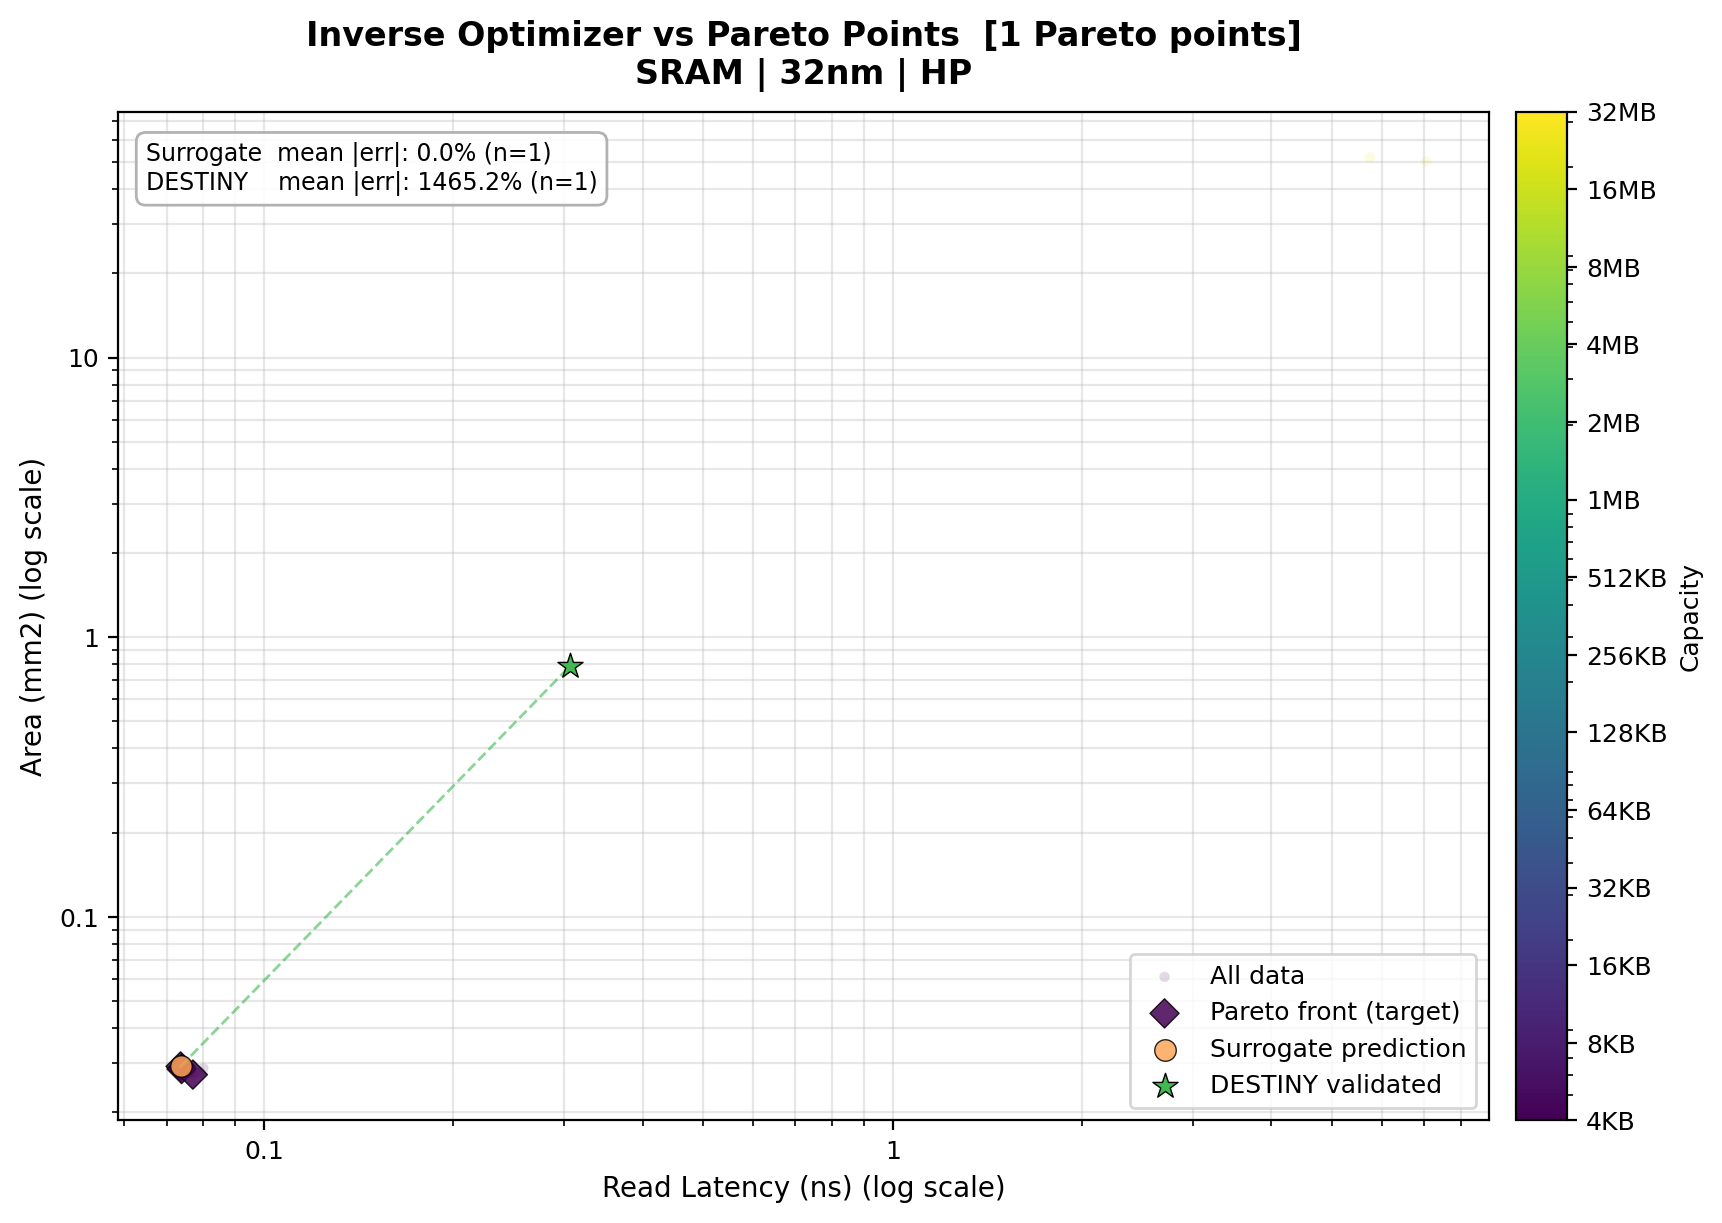
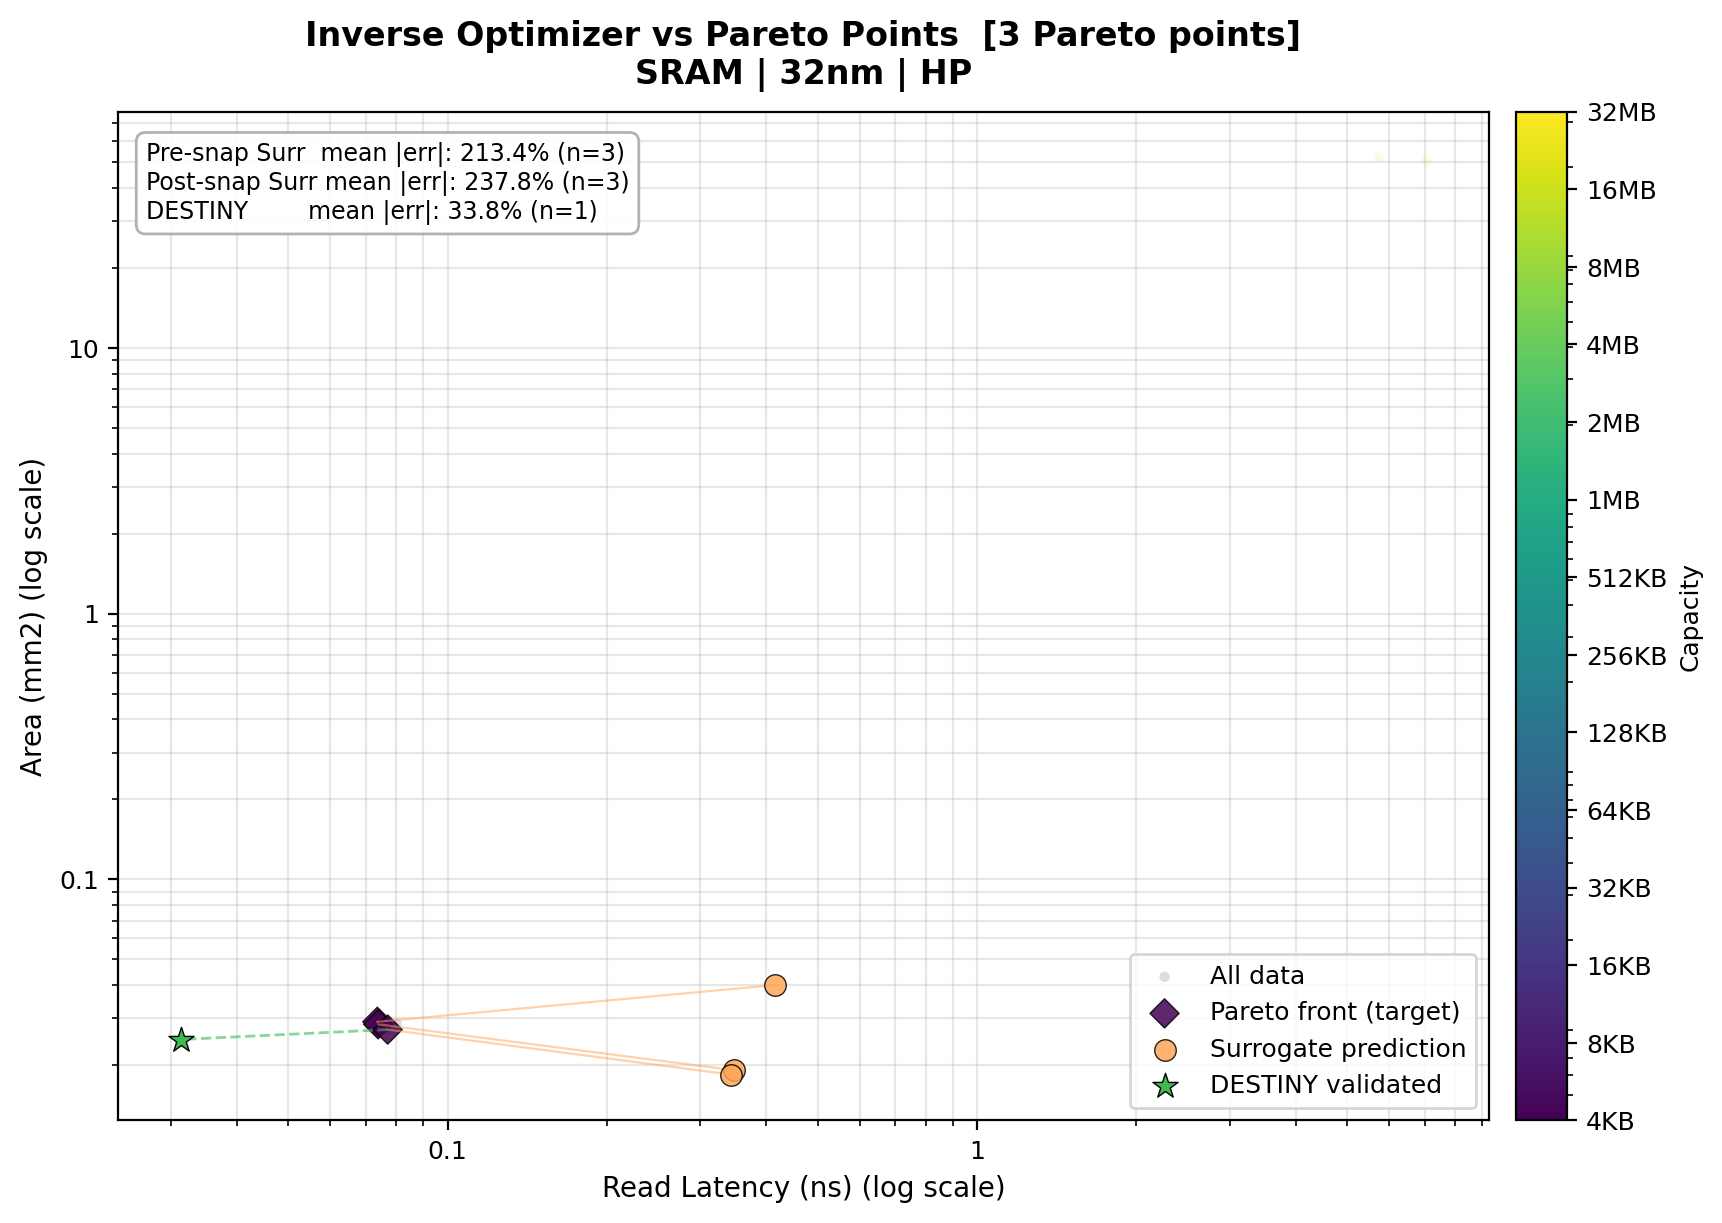
process node fix???

diff --git a/inverse_design_sweep.py b/inverse_design_sweep.py
@@ -94,6 +94,7 @@ def _generate_destiny_configs(cell_file, cfg_file, cap_kb, ww, assoc, stack, tem
 -Temperature (K): {temp}
 -DeviceRoadmap: {roadmap}
 -MemoryCellInputFile: {os.path.abspath(cell_file)}
+-ProcessNode: {node}
 """
     
     # Append forced layout parameters
@@ -233,20 +234,6 @@ def _layout_from_row(row):
     """Extract forced layout params present in a Series/dict as int, else None."""
     return {k: int(row[k]) for k in _LAYOUT_COLS if k in row.index and pd.notna(row[k])}
 
-def _check_physics_feasibility(row, assoc=4):
-    """Pre-validate physics feasibility before calling DESTINY."""
-    cap_bits, ww = row.get("capacity_kb", 0) * 8192, row.get("word_width_bits", 0)
-    layout = _layout_from_row(row)
-    mux = layout.get("data_mux_sense_amp", 1) * layout.get("data_mux_output_lev2", 1)
-    mats = (layout.get("data_num_active_mat_per_row", 1) * layout.get("data_num_active_mat_per_col", 1) *
-            layout.get("data_num_active_subarray_per_row", 1) * layout.get("data_num_active_subarray_per_col", 1))
-            
-    num_col = ww * mux
-    if cap_bits / (mats * num_col + 1e-9) < 1: return False, "numRow < 1"
-    if num_col > 1024: return False, f"numCol={num_col} > 1024"
-    if num_col * mats < ww * assoc: return False, "bits_per_mat < set_size"
-    return True, "ok"
-
 # -- Main Helpers --------------------------------------------------------------
 
 def _load_and_filter_data(args, data_csv, x_col, y_col):
@@ -279,31 +266,64 @@ def _run_optimization_sweep(df_target, df, opt, x_col, y_col, x_label, y_label, 
         opt_ctx = {k: v for k, v in ctx.items() if not k.startswith("_")}
         opt_ctx["data_stacked_die_count"] = 0.0 # Force 2D designs
         
-        design, ppa = opt.optimize(targets, opt_ctx, steps=args.opt_steps)
+        design, ppa, pre_snap, snapped_ppa = opt.optimize(targets, opt_ctx, steps=args.opt_steps, verbose=args.verbose_opt)
         surr_x, surr_y = ppa.get(METRIC_TO_PPA_LABEL.get(x_col, "")), ppa.get(METRIC_TO_PPA_LABEL.get(y_col, ""))
         
         errs = [abs(pct_err(v, t)) for v, t in [(surr_x, target_x), (surr_y, target_y)] if v is not None]
         surr_mean_err = float(np.mean(errs)) if errs else float("nan")
 
+        snapped_surr_x = snapped_ppa.get(METRIC_TO_PPA_LABEL.get(x_col, "")) if snapped_ppa else None
+        snapped_surr_y = snapped_ppa.get(METRIC_TO_PPA_LABEL.get(y_col, "")) if snapped_ppa else None
+        
+        snap_errs = [abs(pct_err(v, t)) for v, t in [(snapped_surr_x, target_x), (snapped_surr_y, target_y)] if v is not None]
+        snap_mean_err = float(np.mean(snap_errs)) if snap_errs else float("nan")
+
         x_pct, y_pct = float((df[x_col] <= target_x).mean() * 100), float((df[y_col] <= target_y).mean() * 100)
 
+        # Optimized cell params (public names so they aren't stripped from CSV)
+        opt_wn  = design.get("CellInput_SRAMCellNMOSWidth (F)", ctx["_wn"])
+        opt_wp  = design.get("CellInput_SRAMCellPMOSWidth (F)", ctx["_wp"])
+        opt_wac = design.get("CellInput_AccessCMOSWidth (F)",   ctx["_wac"])
+        opt_rv  = design.get("CellInput_ReadVoltage (V)",        ctx["_read_voltage"])
+
         records.append({
+            # --- metadata ---
+            "is_original": False,
             "target_idx": i, "x_percentile": x_pct, "y_percentile": y_pct,
-            "target_x": target_x, "target_y": target_y, "surr_x": surr_x, "surr_y": surr_y,
+            "node_nm": int(row["process_node_nm"]),
+            "target_x": target_x, "target_y": target_y, 
+            "surr_x": surr_x, "surr_y": surr_y,
             "surr_err_x_pct": pct_err(surr_x, target_x) if surr_x is not None else None,
             "surr_err_y_pct": pct_err(surr_y, target_y) if surr_y is not None else None,
             "surr_mean_abs_err_pct": surr_mean_err,
+            "post_snap_surr_x": snapped_surr_x, "post_snap_surr_y": snapped_surr_y,
+            "post_snap_surr_err_x_pct": pct_err(snapped_surr_x, target_x) if snapped_surr_x is not None else None,
+            "post_snap_surr_err_y_pct": pct_err(snapped_surr_y, target_y) if snapped_surr_y is not None else None,
+            "post_snap_surr_mean_abs_err_pct": snap_mean_err,
+            # --- original dataset inputs (the design that achieved the target PPA) ---
+            "orig_capacity_kb":            row.get("capacity_kb"),
+            "orig_word_width_bits":        row.get("word_width_bits"),
+            "orig_associativity":          row.get("associativity"),
+            "orig_data_stacked_die_count": row.get("data_stacked_die_count"),
+            **{f"orig_{k}": row.get(k) for k in _LAYOUT_COLS},
+            "orig_wn":  ctx["_wn"],  "orig_wp":  ctx["_wp"],
+            "orig_wac": ctx["_wac"], "orig_rv":  ctx["_read_voltage"],
+            # --- optimized inputs (what we re-injected into DESTINY) ---
             "capacity_kb": design.get("capacity_kb"), "word_width_bits": design.get("word_width_bits"),
             "associativity": design.get("associativity"), "data_stacked_die_count": design.get("data_stacked_die_count"),
             **{k: design.get(k) for k in _LAYOUT_COLS},
-            "_wn": design.get("CellInput_SRAMCellNMOSWidth (F)", ctx["_wn"]),
-            "_wp": design.get("CellInput_SRAMCellPMOSWidth (F)", ctx["_wp"]),
-            "_wac": design.get("CellInput_AccessCMOSWidth (F)", ctx["_wac"]),
-            "_read_voltage": design.get("CellInput_ReadVoltage (V)", ctx["_read_voltage"]),
+            "opt_wn": opt_wn, "opt_wp": opt_wp, "opt_wac": opt_wac, "opt_rv": opt_rv,
+            # --- private: used internally, stripped before saving ---
+            "_wn": opt_wn, "_wp": opt_wp, "_wac": opt_wac, "_read_voltage": opt_rv,
             "_temp": SRAM_TEMPERATURE_MAP.get(design.get("data_stacked_die_count", 1), ctx["_temp"]),
+            # --- DESTINY validation results (filled in step 5) ---
             "destiny_x": None, "destiny_y": None, "destiny_err_x_pct": None, "destiny_err_y_pct": None, "destiny_mean_abs_err_pct": None,
+            # --- pre-snap continuous values from the optimizer ---
+            **{f"pre_snap_{k}": v for k, v in pre_snap.items()},
         })
-        print(f"  [{i+1:3d}/{len(df_target)}] Target: {x_label.split()[0]}={target_x:.4g}{x_unit} (p{x_pct:.0f}), {y_label.split()[0]}={target_y:.4g}{y_unit} (p{y_pct:.0f})  ->  Surr: {surr_x:.4g}, {surr_y:.4g}  (err={surr_mean_err:.1f}%)")
+        print(f"  [{i+1:3d}/{len(df_target)}] Target: {x_label.split()[0]}={target_x:.4g}{x_unit} (p{x_pct:.0f}), {y_label.split()[0]}={target_y:.4g}{y_unit} (p{y_pct:.0f})\n"
+              f"         Pre-snap Surr:  {surr_x:.4g}, {surr_y:.4g}  (err={surr_mean_err:.1f}%)\n"
+              f"         Post-snap Surr: {snapped_surr_x:.4g}, {snapped_surr_y:.4g}  (err={snap_mean_err:.1f}%)")
     return pd.DataFrame(records)
 
 def _validate_top_designs(df_res, x_col, y_col, n_validate, args):
@@ -316,16 +336,17 @@ def _validate_top_designs(df_res, x_col, y_col, n_validate, args):
     for rank, ri in enumerate(df_res["surr_mean_abs_err_pct"].sort_values().head(n_validate).index, 1):
         row = df_res.loc[ri]
         ot = "ReadLatency"
+        node_val = int(row.get("node_nm", args.node))
         
         print(f"  Validating design #{rank}  (target_idx={int(row.target_idx)}, surr_err={row.surr_mean_abs_err_pct:.1f}%)\n"
-              f"    Cap={int(row.capacity_kb)}KB  WW={row.word_width_bits}  Assoc={row.associativity}  Stack={row.data_stacked_die_count}  OptTarget={ot}")
+              f"    Node={node_val}nm  Cap={int(row.capacity_kb)}KB  WW={row.word_width_bits}  Assoc={row.associativity}  Stack={row.data_stacked_die_count}  OptTarget={ot}")
 
         layout = _layout_from_row(row)
         destiny_ppa = validate_and_capture(
             tech=args.tech, cap_kb=int(row.capacity_kb), ww=int(row.word_width_bits),
             assoc=int(row.associativity), stack=max(1, int(row.data_stacked_die_count)),
             temp=int(row["_temp"]), wn=float(row["_wn"]), wp=float(row["_wp"]), wac=float(row["_wac"]), read_voltage=float(row["_read_voltage"]),
-            node=args.node, roadmap=args.roadmap, timeout=args.destiny_timeout, verbose=args.verbose_destiny, opt_target=ot,
+            node=node_val, roadmap=args.roadmap, timeout=args.destiny_timeout, verbose=args.verbose_destiny, opt_target=ot,
             mux_sa=layout.get("data_mux_sense_amp"), mux_ol2=layout.get("data_mux_output_lev2"),
             act_mat_col=layout.get("data_num_active_mat_per_col"), act_mat_row=layout.get("data_num_active_mat_per_row"),
             act_sub_col=layout.get("data_num_active_subarray_per_col"), act_sub_row=layout.get("data_num_active_subarray_per_row"),
@@ -385,8 +406,12 @@ def _plot_results(df_res, df, df_target, df_pareto_ref, x_col, y_col, x_label, y
     subtitle = f"{len(df_target)} targets, {args.n_bins} bins" if args.mode == "median" else f"{len(df_target)} Pareto points"
     ax.set_title(f"Inverse Optimizer vs {args.mode.capitalize()} Points  [{subtitle}]\n{args.tech} | {args.node}nm | {args.roadmap}", fontsize=12, fontweight="bold", pad=10)
 
-    ann_lines = [f"Surrogate  mean |err|: {s_errs.mean():.1f}% (n={len(s_errs)})"]
-    if len(d_errs) > 0: ann_lines.append(f"DESTINY    mean |err|: {d_errs.mean():.1f}% (n={len(d_errs)})")
+    post_s_errs = df_res["post_snap_surr_mean_abs_err_pct"].dropna()
+    ann_lines = [
+        f"Pre-snap Surr  mean |err|: {s_errs.mean():.1f}% (n={len(s_errs)})",
+        f"Post-snap Surr mean |err|: {post_s_errs.mean():.1f}% (n={len(post_s_errs)})"
+    ]
+    if len(d_errs) > 0: ann_lines.append(f"DESTINY        mean |err|: {d_errs.mean():.1f}% (n={len(d_errs)})")
     ax.text(0.02, 0.97, "\n".join(ann_lines), transform=ax.transAxes, fontsize=8.5, verticalalignment="top", bbox=dict(boxstyle="round,pad=0.4", facecolor="white", edgecolor="#aaaaaa", alpha=0.9))
 
     ax.grid(True, which="both", alpha=0.3); ax.legend(loc="lower right", fontsize=9); add_cap_colorbar(fig, [ax], norm)
@@ -410,6 +435,7 @@ def main():
     p.add_argument("--destiny-timeout", type=int, default=300, help="Timeout [s] per DESTINY call")
     p.add_argument("--output-dir", default="benchmark_results")
     p.add_argument("--verbose-destiny", action="store_true", help="Print DESTINY cell/cfg and full stdout on every call")
+    p.add_argument("--verbose-opt",     action="store_true", help="Print pre/post-snap parameter table for every optimized design")
     p.add_argument("--max-targets", type=int, default=None, help="Max target designs to optimize (None for all)")
     p.add_argument("--feasibility", action="store_true", help="Use feasibility classifier to penalize impossible designs")
     args = p.parse_args()
@@ -441,12 +467,16 @@ def main():
 
     df_res = _validate_top_designs(df_res, x_col, y_col, min(args.validate_top, len(df_res)), args)
 
-    s_errs, d_errs = df_res["surr_mean_abs_err_pct"].dropna(), df_res["destiny_mean_abs_err_pct"].dropna()
+    s_errs = df_res["surr_mean_abs_err_pct"].dropna()
+    post_s_errs = df_res["post_snap_surr_mean_abs_err_pct"].dropna()
+    d_errs = df_res["destiny_mean_abs_err_pct"].dropna()
     csv_path = os.path.join(args.output_dir, f"benchmark_{args.mode}_{args.tech}_{args.node}nm_{args.roadmap}.csv")
     df_res[[c for c in df_res.columns if not c.startswith("_")]].to_csv(csv_path, index=False)
     
-    print(f"[6/6] Results saved -> {csv_path}\n      Surrogate mean |err|: {s_errs.mean():.2f}%  (median {s_errs.median():.2f}%,  n={len(s_errs)})")
-    if len(d_errs) > 0: print(f"      DESTINY   mean |err|: {d_errs.mean():.2f}%  (median {d_errs.median():.2f}%,  n={len(d_errs)})")
+    print(f"[6/6] Results saved -> {csv_path}\n"
+          f"      Pre-snap Surr  mean |err|: {s_errs.mean():.2f}%  (median {s_errs.median():.2f}%,  n={len(s_errs)})\n"
+          f"      Post-snap Surr mean |err|: {post_s_errs.mean():.2f}%  (median {post_s_errs.median():.2f}%,  n={len(post_s_errs)})")
+    if len(d_errs) > 0: print(f"      DESTINY        mean |err|: {d_errs.mean():.2f}%  (median {d_errs.median():.2f}%,  n={len(d_errs)})")
 
     _plot_results(df_res, df, df_target, df_pareto_ref, x_col, y_col, x_label, y_label, args, s_errs, d_errs)
 

diff --git a/inverse_design.py b/inverse_design.py
@@ -74,8 +74,11 @@ def _build_dyn_idx(feature_cols, opt_cols):
 
 
 def _update_sram_cell_features(x, dyn_idx, log_vals, opt_cols, fixed_context, device):
-    """Compute SRAM cell derived features and write them into feature vector x (in-place)."""
-    from destiny_utils import derive_sram_physical_params
+    """Compute SRAM cell derived features and write them into feature vector x (in-place).
+
+    CellArea is computed using differentiable torch ops so gradients flow back to
+    wn/wp/wac during optimization. 
+    """
     wn  = 10 ** log_vals[opt_cols.index("CellInput_SRAMCellNMOSWidth (F)")]
     wp  = 10 ** log_vals[opt_cols.index("CellInput_SRAMCellPMOSWidth (F)")]
     wac = 10 ** log_vals[opt_cols.index("CellInput_AccessCMOSWidth (F)")]
@@ -83,14 +86,15 @@ def _update_sram_cell_features(x, dyn_idx, log_vals, opt_cols, fixed_context, de
         rv = log_vals[opt_cols.index("CellInput_ReadVoltage (V)")]
     else:
         rv = torch.tensor(float(fixed_context.get("CellInput_ReadVoltage (V)", 1.0)), device=device)
-    node = int([k for k in fixed_context if "process_node_nm_" in k][0].split("_")[-1])
-    p = {"SRAMCellNMOSWidth (F)": wn.item(), "SRAMCellPMOSWidth (F)": wp.item(), "AccessCMOSWidth (F)": wac.item()}
-    derive_sram_physical_params(p, node)
-    cell_area = p["CellArea (F^2)"]
+
+    # Differentiable CellArea — gradient flows back to wn, wp, wac
+    cell_area = 55.0 + 30.0 * torch.maximum(wn, wac) + 20.0 * (wp + 0.5) # Mirrors the formula in derive_sram_physical_params
+    cell_area = torch.clamp(cell_area, 40.0, 200.0) # Same clamping too
+
     if "CellInput_CellArea (F^2)" in dyn_idx:
-        x[dyn_idx["CellInput_CellArea (F^2)"]] = torch.log10(torch.tensor(cell_area, device=device))
+        x[dyn_idx["CellInput_CellArea (F^2)"]] = torch.log10(cell_area)
     if "derived_sqrt_area" in dyn_idx:
-        x[dyn_idx["derived_sqrt_area"]] = torch.sqrt(torch.tensor(cell_area, device=device))
+        x[dyn_idx["derived_sqrt_area"]] = torch.sqrt(cell_area)
     if "derived_read_v_sq" in dyn_idx:
         x[dyn_idx["derived_read_v_sq"]] = rv ** 2
 
@@ -190,7 +194,7 @@ class InverseOptimizer:
             torch.tensor(weights, dtype=torch.float32, device=self.device),
         )
 
-    def optimize(self, targets, fixed_context, steps=300, n_restarts=4, target_weights=None):
+    def optimize(self, targets, fixed_context, steps=300, n_restarts=4, target_weights=None, verbose=False):
         """Gradient-based inverse design with multi-start."""
         t_tensor, w_tensor = self._target_tensors(targets)
         if target_weights is not None:
@@ -316,10 +320,84 @@ class InverseOptimizer:
                 if k not in self.opt_cols:
                     design[k] = int(2 ** float(v)) if k == "data_stacked_die_count" else v
 
+            # Always compute pre-snap (continuous) physical values for CSV export
+            pre_snap = {}
+            for col, lv in zip(self.opt_cols, final_log_vals):
+                if col in self.log10_cols:
+                    pre_snap[col] = float(10 ** lv)
+                elif col in self.log2_cols:
+                    pre_snap[col] = float(2 ** lv)
+                else:
+                    pre_snap[col] = float(lv)
+
+            # Second forward pass using snapped values — gives the honest post-snap surrogate prediction
+            snapped_log_vals = torch.zeros(len(self.opt_cols), device=self.device)
+            for j, col in enumerate(self.opt_cols):
+                val = float(design.get(col, 0.0))
+                if col in self.log10_cols:
+                    snapped_log_vals[j] = float(np.log10(max(val, 1e-12)))
+                elif col in self.log2_cols:
+                    snapped_log_vals[j] = float(np.log2(max(val, 1)))
+                else:
+                    snapped_log_vals[j] = val
+
+            cap_log10_snap = snapped_log_vals[self.opt_cols.index("capacity_kb")]
+            cap_phys_snap  = 10 ** cap_log10_snap
+
+            x_snap = base_x.clone()
+            for col, lv in zip(self.opt_cols, snapped_log_vals):
+                if col in dyn_idx:
+                    x_snap[dyn_idx[col]] = lv
+
+            if "derived_sqrt_capacity" in dyn_idx:
+                x_snap[dyn_idx["derived_sqrt_capacity"]] = torch.sqrt(cap_phys_snap)
+
+            if "data_stacked_die_count" in self.opt_cols:
+                stk_phys_snap = 2 ** snapped_log_vals[self.opt_cols.index("data_stacked_die_count")]
+            else:
+                stk_phys_snap = torch.tensor(2 ** float(fixed_context.get("data_stacked_die_count", 0.0)), device=self.device)
+
+            if "word_width_bits" in self.opt_cols:
+                ww_phys_snap = 2 ** snapped_log_vals[self.opt_cols.index("word_width_bits")]
+            else:
+                ww_phys_snap = torch.tensor(2 ** float(fixed_context.get("word_width_bits", 6.0)), device=self.device)
+
+            if "derived_cap_per_die" in dyn_idx:
+                x_snap[dyn_idx["derived_cap_per_die"]]  = cap_phys_snap / stk_phys_snap
+            if "derived_rows_per_die" in dyn_idx:
+                x_snap[dyn_idx["derived_rows_per_die"]] = (cap_phys_snap * 1024) / (ww_phys_snap * stk_phys_snap)
+
+            if self.tech == "SRAM" and "CellInput_SRAMCellNMOSWidth (F)" in self.opt_cols:
+                _update_sram_cell_features(x_snap, dyn_idx, snapped_log_vals, self.opt_cols, fixed_context, self.device)
+
+            for rm in ["HP", "LOP", "LSTP"]:
+                col = f"device_roadmap_{rm}_x_log10_cap"
+                if col in dyn_idx:
+                    x_snap[dyn_idx[col]] = float(fixed_context.get(f"device_roadmap_{rm}", 0.0)) * cap_log10_snap
+
+            x_snap_scaled = ((x_snap - self.means) / self.stds).unsqueeze(0)
+            if self.model.has_feasibility_head:
+                pred_snap, _ = self.model.forward_with_feasibility(x_snap_scaled)
+            else:
+                pred_snap = self.model(x_snap_scaled)
+            snapped_ppa = 10 ** pred_snap.cpu().numpy()[0]
+            snapped_ppa_dict = {label: snapped_ppa[i] for i, label in enumerate(TARGET_LABELS)}
+
+            if verbose:
+                col_w = max(len(c) for c in self.opt_cols) + 2
+                print(f"\n  {'Parameter':<{col_w}}  {'Pre-snap (continuous)':>22}  {'Post-snap (physical)':>20}")
+                print(f"  {'-'*col_w}  {'':->22}  {'':->20}")
+                for col in self.opt_cols:
+                    pre  = pre_snap.get(col, float("nan"))
+                    post = design.get(col, float("nan"))
+                    changed = "  *" if abs(pre - post) > 1e-6 * (abs(pre) + 1e-12) else ""
+                    print(f"  {col:<{col_w}}  {pre:>22.6g}  {post:>20.6g}{changed}")
+                print()
+
             pred_ppa = 10 ** pred.detach().cpu().numpy()[0]
             ppa_dict = {label: pred_ppa[i] for i, label in enumerate(TARGET_LABELS)}
 
-        return design, ppa_dict
+        return design, ppa_dict, pre_snap, snapped_ppa_dict
 
 
 if __name__ == "__main__":
@@ -334,6 +412,7 @@ if __name__ == "__main__":
     p.add_argument("--temperature",    type=float, default=350.0)
     p.add_argument("--output",         default=None, help="CSV to append results to")
     p.add_argument("--feasibility",    action="store_true")
+    p.add_argument("--verbose-opt",    action="store_true", help="Print pre/post-snap parameter table")
     args = p.parse_args()
 
     targets = {k: v for k, v in [
@@ -353,7 +432,8 @@ if __name__ == "__main__":
         "temperature_K":                  args.temperature,
     }
 
-    design, ppa = InverseOptimizer(args.tech, use_feasibility=args.feasibility).optimize(targets, context)
+    design, ppa, pre_snap, snapped_ppa = InverseOptimizer(args.tech, use_feasibility=args.feasibility).optimize(
+        targets, context, verbose=args.verbose_opt)
 
     row = {"tech": args.tech, "node_nm": args.node,
            "roadmap": args.roadmap, "temperature_K": args.temperature}
@@ -363,11 +443,18 @@ if __name__ == "__main__":
         "pred_energy_nJ":  ppa.get("Energy"),  "pred_leakage_mW": ppa.get("Leakage"),
     })
     row.update({
+        "post_snap_pred_latency_ns": snapped_ppa.get("Latency"),
+        "post_snap_pred_area_mm2":   snapped_ppa.get("Area"),
+        "post_snap_pred_energy_nJ":  snapped_ppa.get("Energy"),
+        "post_snap_pred_leakage_mW": snapped_ppa.get("Leakage"),
+    })
+    row.update({
         "target_latency_ns": targets.get("cache_hit_latency_ns",  float("nan")),
         "target_area_mm2":   targets.get("cache_area_mm2",        float("nan")),
         "target_energy_nJ":  targets.get("cache_write_energy_nJ", float("nan")),
         "target_leakage_mW": targets.get("cache_leakage_mW",      float("nan")),
     })
+    row.update({f"pre_snap_{k}": v for k, v in pre_snap.items()})
 
     df_out = pd.DataFrame([row])
     if args.output:
